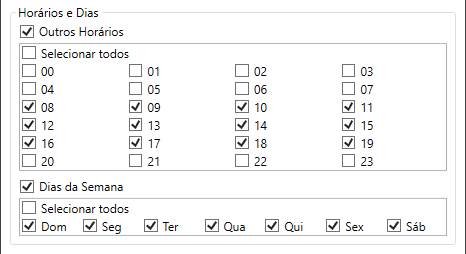
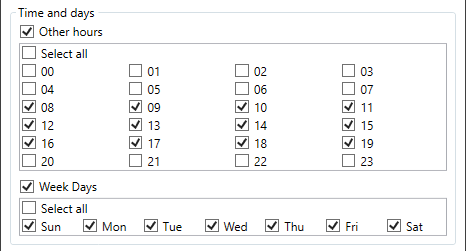
Início da seção 'Scheduling advertisement blocks with Events' e imagens

diff --git a/Docs/Getting Started.md b/Docs/Getting Started.md
@@ -74,49 +74,49 @@ The files must be in the following format:  **HRSxx** and **MINxx**, where **xx*
 
 The audio files for time announcement can be in any of the audio formats supported by Salamandra.
 
-# Agendar um bloco de anúncio com eventos
+# Scheduling advertisement blocks with Events
 
-A forma mais fácil de montar uma programação de bloco de anúncios ou agendar qualquer outra ação do player é através do agendador de eventos. Logo acima da **Planilha de Eventos**, clique no botão de calendário. Será aberta então a seguinte janela:
+The easiest way to set up the advertisements blocks or schedule any other player action is through the event scheduler. Just above the **Events Playlist**, click on the calendar button. The following window will then open:
 
 <p align="center">
-	<img src="Images/EventListWindow.png" alt="Agendador de Eventos"/>
+	<img src="Images/EventListWindow.png" alt="Events Scheduler"/>
 </p>
 
-Esta janela mostra todos os seus eventos cadastrados, permitindo que você crie, edite ou exclua eventos.
+This window shows all your scheduled events, allowing you to create, edit or delete them.
 
-## Agendando as Locuções de Hora
+## Scheduling Time Announcements
 
-Vamos criar então alguns eventos de Locução de Hora que serão disparados de 15 em 15 minutos, para servir de abertura do nosso bloco de anúncios. Clique em **Novo** e siga os seguintes passos:
+So let's create some Time Announcement events that will fire every 15 minutes, to serve as the opening of our ad blocks. Click **New** and follow these steps:
 
 <p align="center">
 	<img src="Images/SchedulingTimeAnnouncements.webp" alt="Agendando Locuções de Hora"/>
 </p>
 
-Como pode notar, teremos ao fim quatro eventos que serão disparados aos minutos 00, 15, 30 e 45. Vamos a uma explicação então do agendamento destes.
+As you can see, we will end up with four events that will be triggered at 00, 15, 30 and 45 minutes. Let's go to an explanation of the scheduling of these.
 
 <p align="center">
 	<img src="Images/EventWindow_DateAndTime.png" alt="Data e Hora no Agendamento de Evento"/>
 </p>
 
-Em **Data e Hora de Início**, colocamos o horário do evento e logo em seguida, a primeira opção a ter sido marcada foi a opção **Imediato**. Esta opção significa que o evento entrará exatamente no horário agendado - **isso significa que qualquer música que esteja tocando será cortada para a entrada do evento**. Se você deseja que a música toque até o final para depois dela o evento ser reproduzido, não marque esta opção!
+In **Starting date and time**, we put the time of when we want the event to start, and then, we check the option **Immediate**. This means that the event will start exactly at the scheduled time - **this means that any track that is playing will be stopped so that the event can start**. If you want the event to wait until the current track ends, don't check this option!
 
 <p align="center">
 	<img src="Images/EventWindow_TimeAndDays.png" alt="Horários e Dias no Agendamento de Evento"/>
 </p>
 
-Vamos então a explicação da opção **Horários e Dias**. Quando marcamos **Outros Horários**, indicamos ao Salamandra que queremos que o evento toque em mais horários do que o configurado inicialmente (17:00:00). Podemos então marcar as horas, neste caso de 08h até 19h, que o evento será disparado. Caso você deseje que o evento toque apenas em um horário específico, não marque esta opção. 
+So let's explain the option **Time and days**. When we check **Other hours**, we indicate to Salamandra that we want the event to play at more times than initially configured (16:00:00). We can then set the hours, in this case from 08:00 to 19:00, that the event will be triggered. If you only want the event to play at a specific time, do not check this option.
 
-Note que o horário original muda para (__:00:00), isto significa que o evento tocará em todos os horários selecionados aos zero minutos e zero segundos, 8:00:00, 9:00:00, 10:00:00, etc.
+Note that the starting time changes to (__:00:00), this means the event will play at all selected times at zero minutes and zero seconds, 8:00:00, 9:00:00, 10:00:00, etc.
 
-Já a opção **Dias da Semana**, torna o agendamento do evento periódico, assim como a opção anterior. Quando você marca esta opção, você indica ao Salamandra que deseja que o evento toque em mais dias do que só o configurado em **Data e Hora de Início**. Caso você deseje que o evento toque apenas em um único dia específico, não marque esta opção!
+The **Week Days** option makes scheduling the event periodic, just like the previous option. When you check this option, we indicate to Salamandra that we want the event to play on more days than just the one configured in **Starting date and time**. If you only want the event to play on a single specific day, do not check this option!
 
 <p align="center">
 	<img src="Images/EventWindow_EventType.png" alt="Tipo do Evento no Agendamento de Evento"/>
 </p>
 
-Após isto, basta selecionar o **Tipo de Evento**. Para as locuções de hora, basta nós selecionarmos **Locução de Hora**. Para arquivos de áudio, como veremos em seguida, devemos clicar no botão [...] e selecionar o arquivo que desejamos.
+After that, we just need to set the **Event Type**. For time announcements, we simply select **Time Announcement**. For audio files, as we will see later, we must click on the [...] button and select the file we want.
 
-Para finalizar, como queremos que os eventos toquem de 15 em 15 minutos, basta copiar e colar o evento original e apenas trocar a minutagem de acordo.
+Finally, as we want the events to play every 15 minutes, we just need to copy and paste the original event and change the time accordingly.
 
 ## Agendando os anúncios
 
